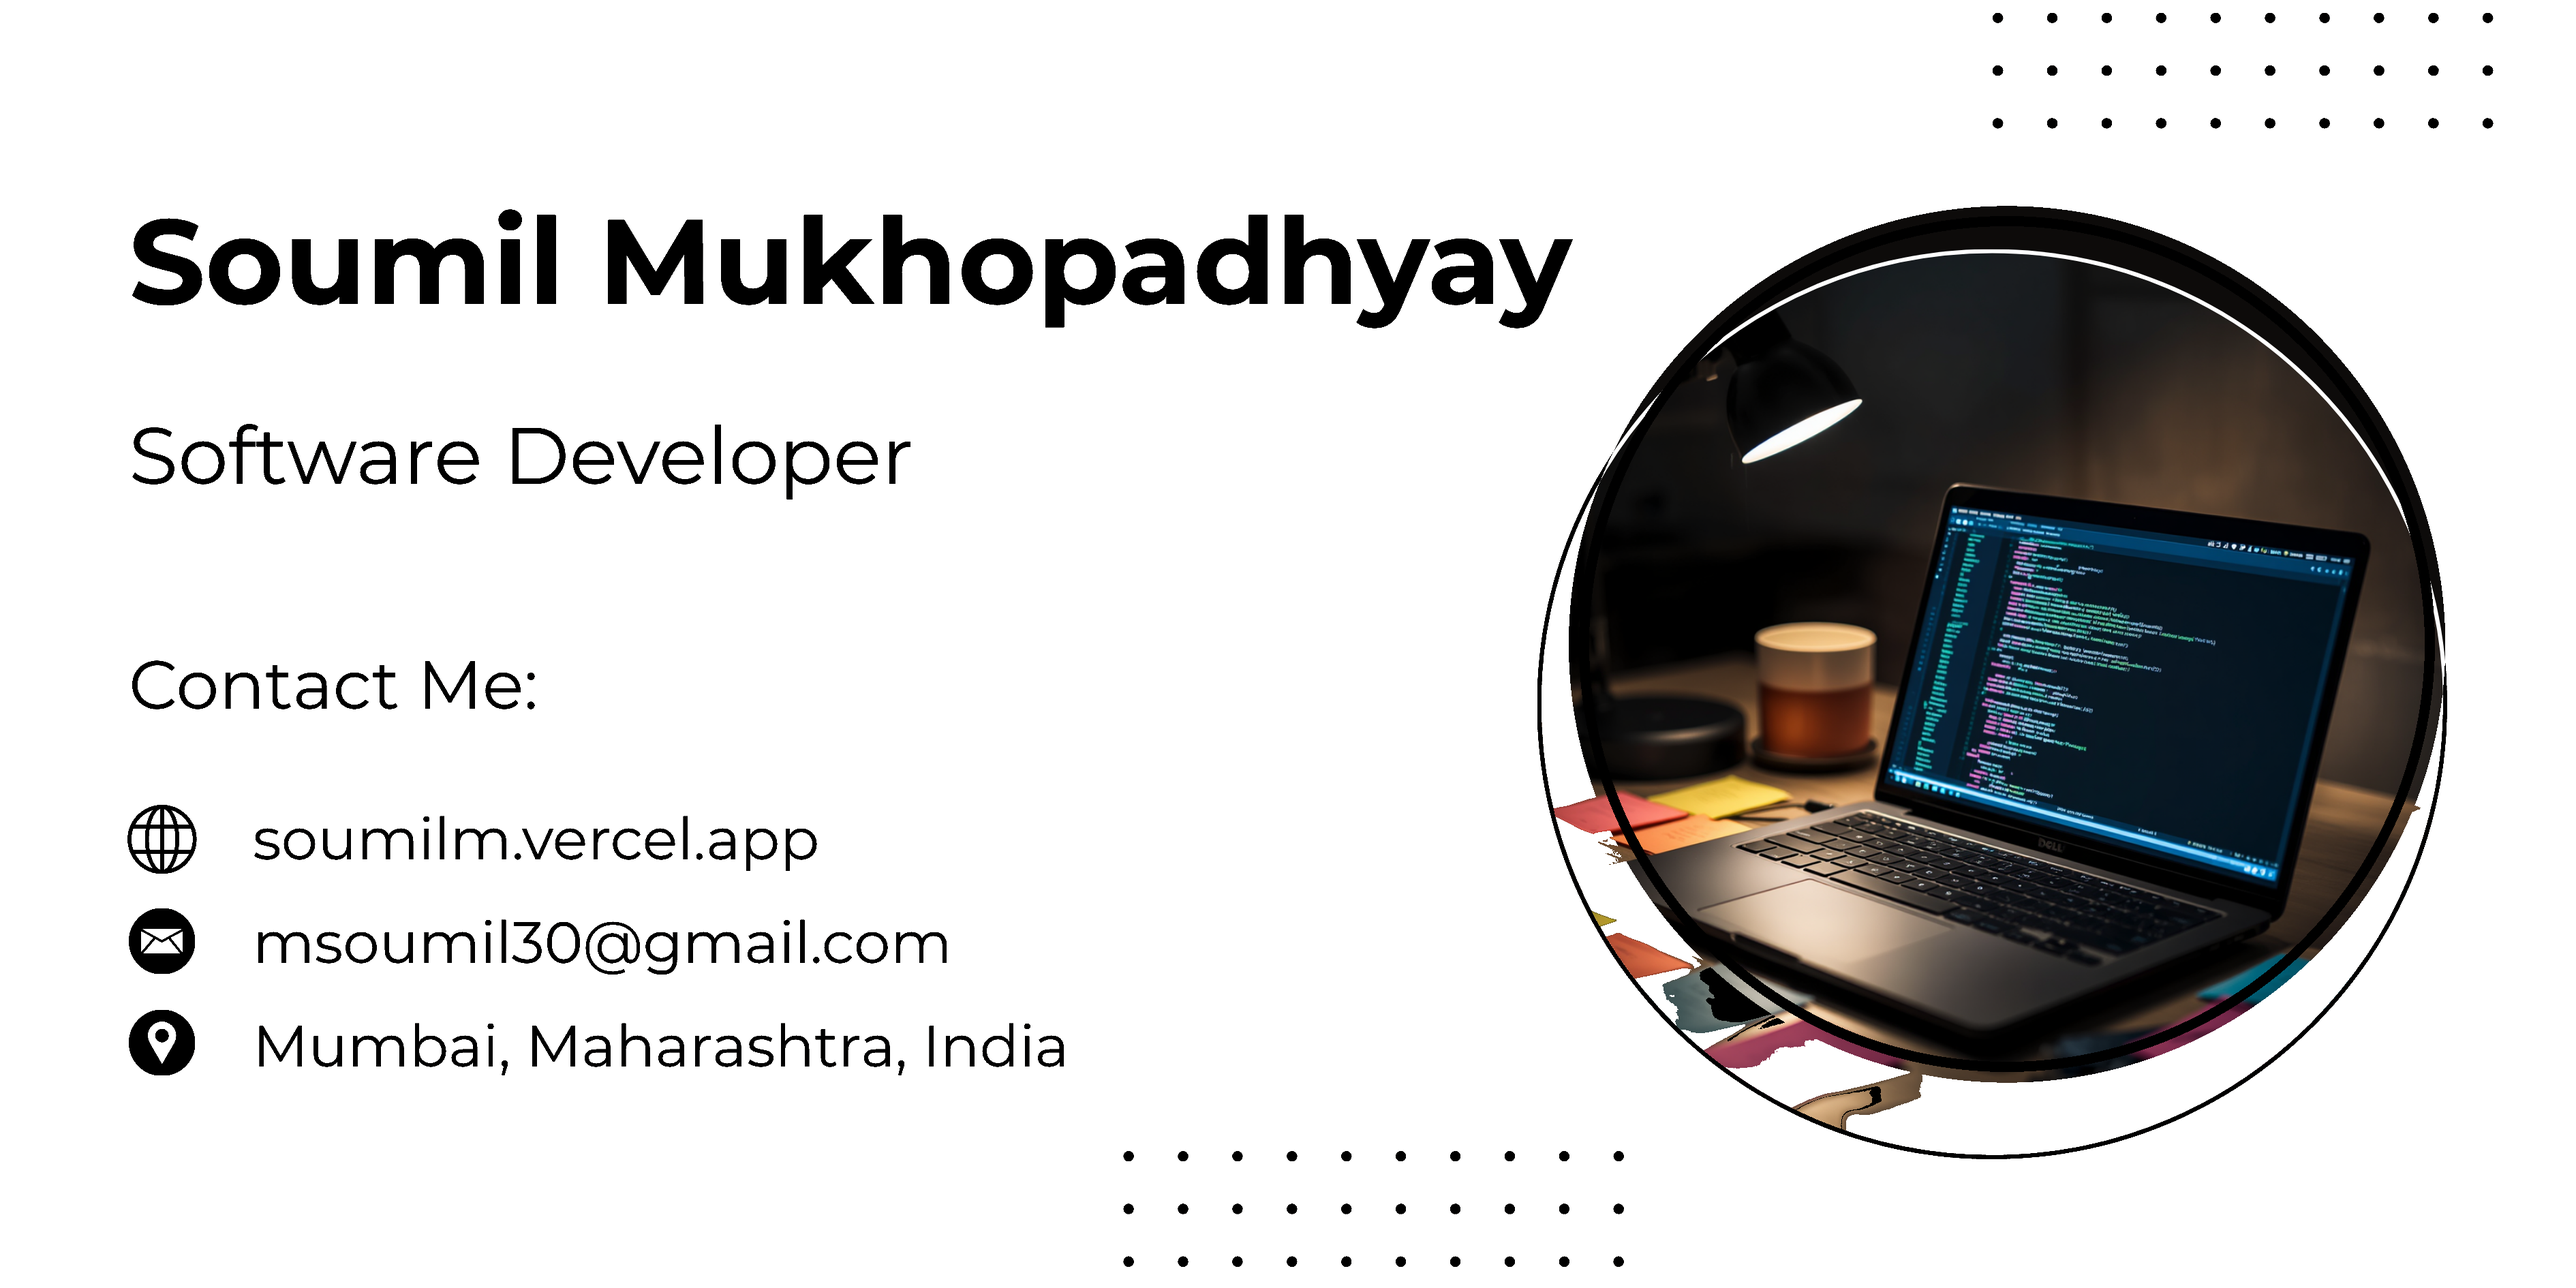
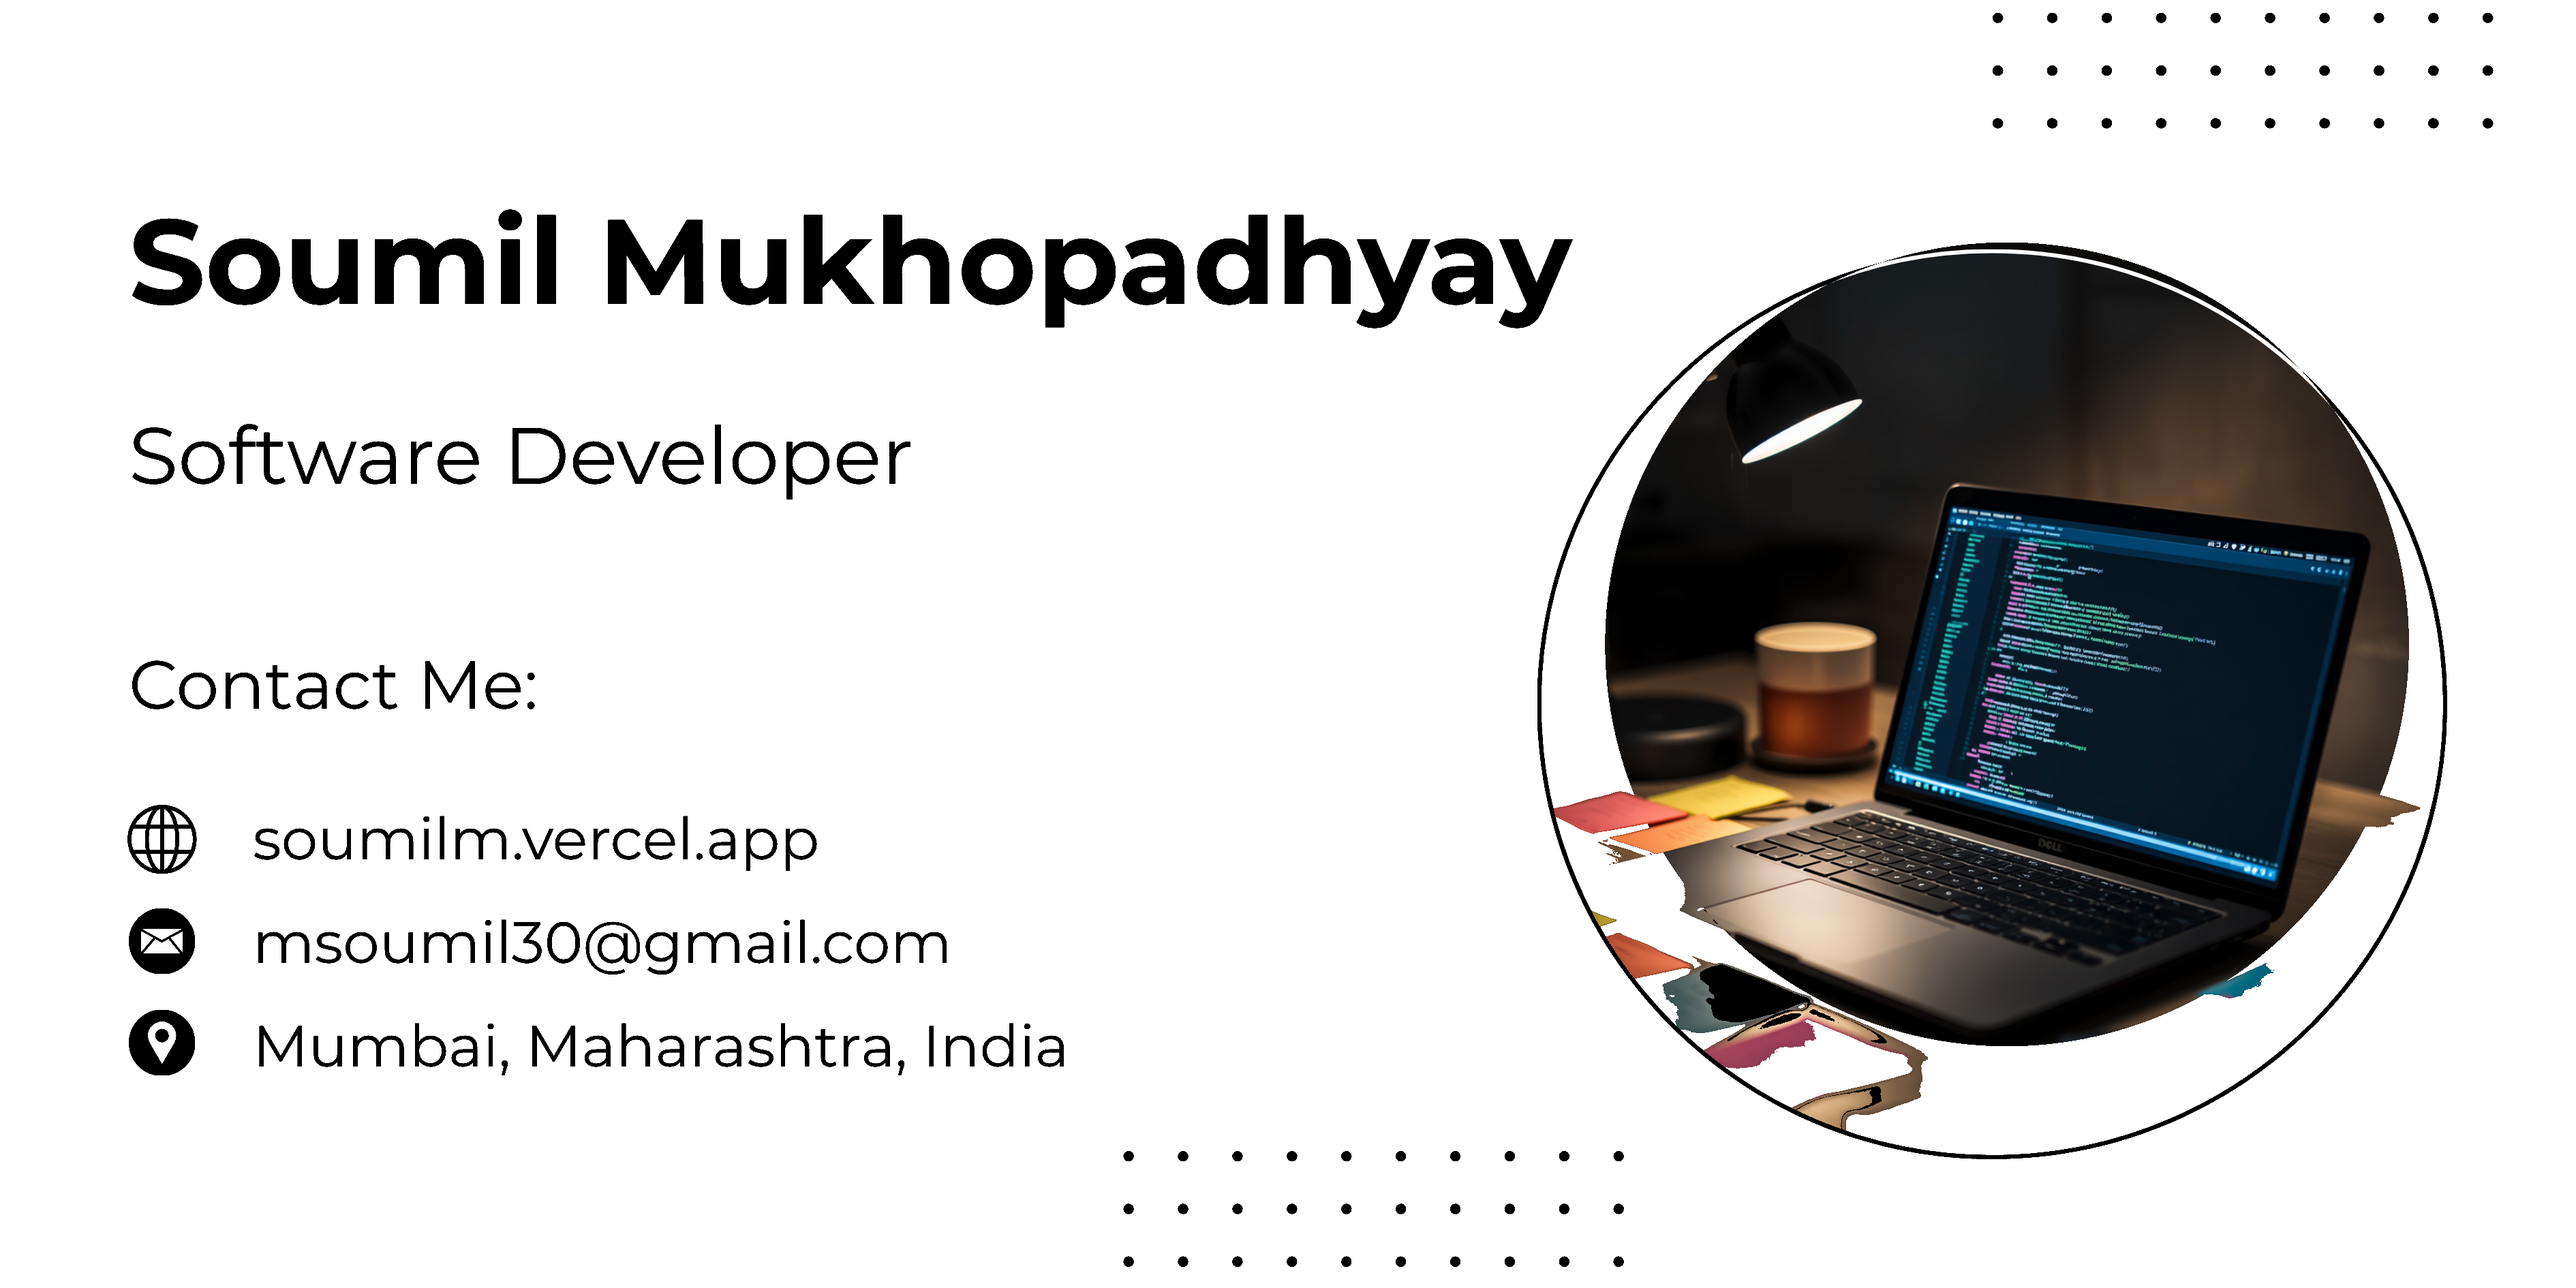
Attempted fix : Image outlines

Changed region(s): [[0.5931, 0.1561, 0.9677, 0.8429]]

diff --git a/scripts/generate_theme_banners.py b/scripts/generate_theme_banners.py
@@ -12,7 +12,7 @@ import shutil
 from pathlib import Path
 from urllib.request import urlopen
 
-from PIL import Image, ImageDraw
+from PIL import Image
 
 
 DEFAULT_DARK_SOURCE = (
@@ -46,7 +46,7 @@ def make_light_banner(dark_path: Path, light_path: Path) -> None:
     photo_cx = width * 0.779
     photo_cy = height * 0.500
     photo_radius = width * 0.166
-    preserve_radius = photo_radius * 1.025
+    preserve_radius = photo_radius * 0.940
     preserve_radius_sq = preserve_radius * preserve_radius
 
     for y in range(height):
@@ -63,19 +63,6 @@ def make_light_banner(dark_path: Path, light_path: Path) -> None:
                 pixels[x, y] = (255, 255, 255)
             elif saturation < 72 and lightness > 118:
                 pixels[x, y] = (0, 0, 0)
-
-    draw = ImageDraw.Draw(image)
-    outline_width = max(6, round(width * 0.004))
-    draw.ellipse(
-        (
-            photo_cx - photo_radius,
-            photo_cy - photo_radius,
-            photo_cx + photo_radius,
-            photo_cy + photo_radius,
-        ),
-        outline=(0, 0, 0),
-        width=outline_width,
-    )
 
     light_path.parent.mkdir(parents=True, exist_ok=True)
     image.save(light_path)
